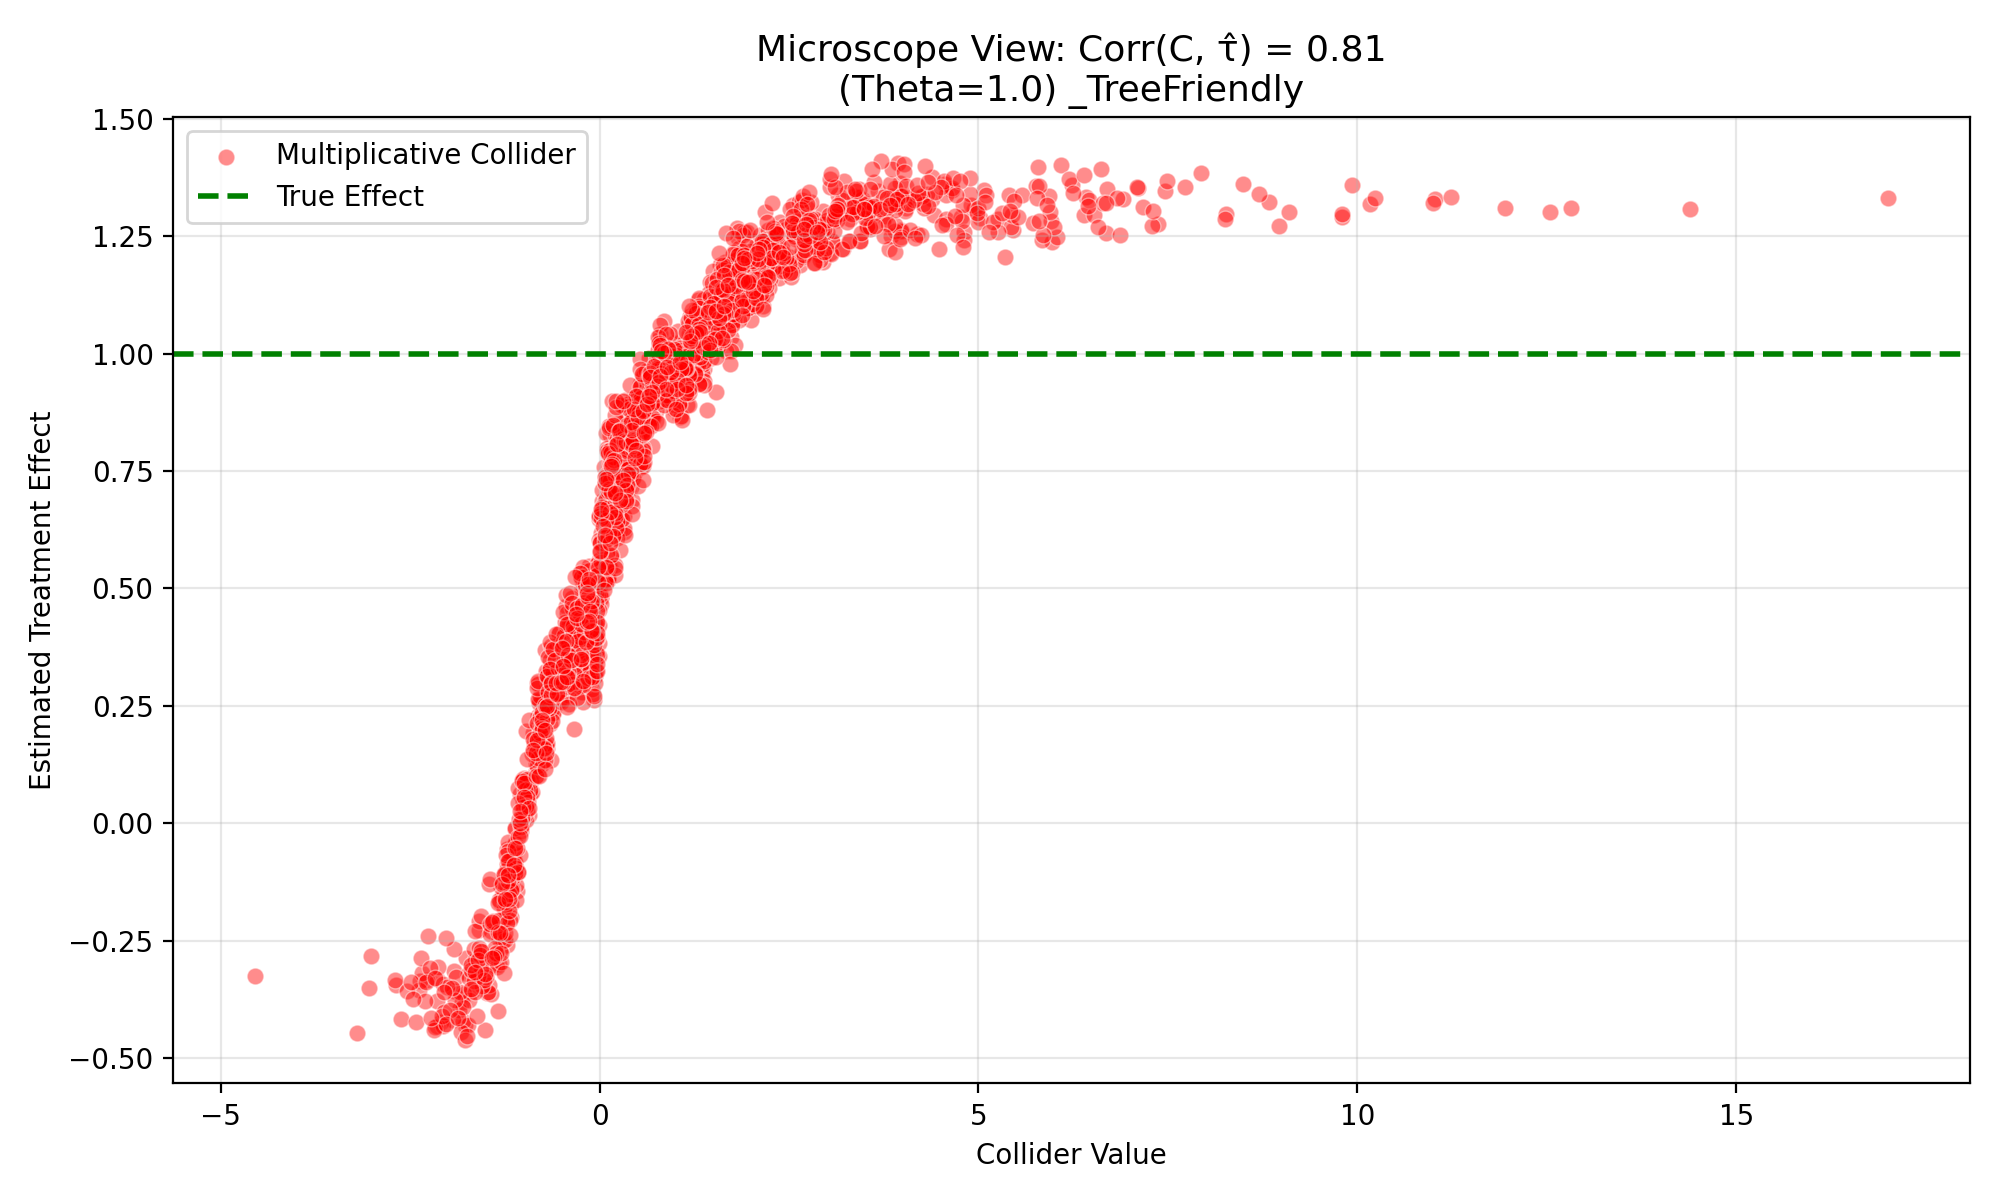
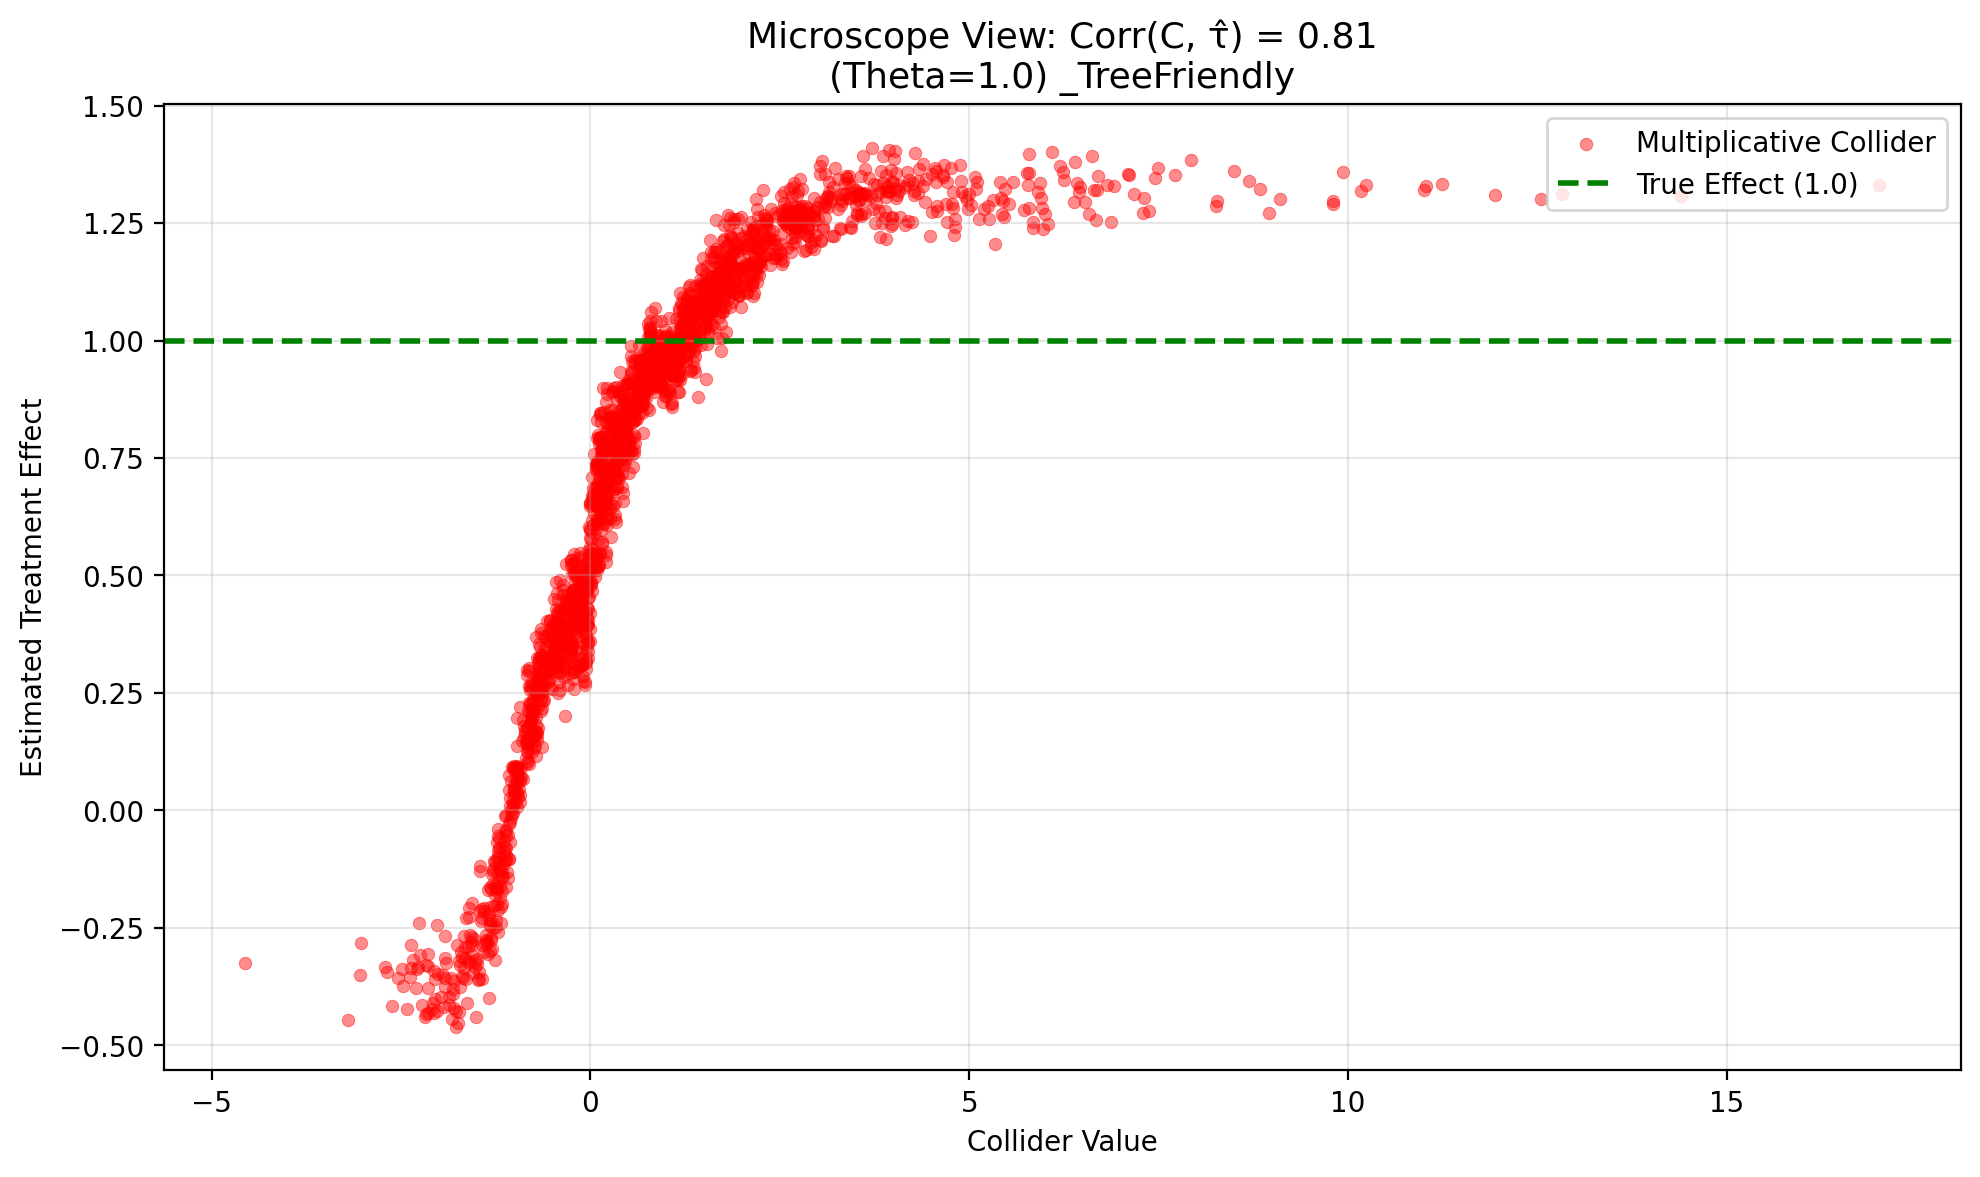
Remove plot titles

Changed region(s): [[0.0, 0.0, 1.0, 0.9482], [0.4929, 0.9482, 0.5854, 0.9788], [0.1232, 0.7952, 0.154, 0.8258]]

diff --git a/src/plotting.py b/src/plotting.py
@@ -5,7 +5,15 @@ import matplotlib.pyplot as plt
 from pathlib import Path
 from matplotlib.lines import Line2D
 
-def plot_microscope_view(dgp, est, theta, output_dir: Path, filename_suffix: str = ""):
+def plot_microscope_view(
+    dgp,
+    est,
+    theta,
+    output_dir: Path,
+    filename_suffix: str = "",
+    wgan_baseline: float = 6250.951,
+    wgan_center: bool = True,
+):
     """
     Microscope diagnostic plot.
 
@@ -14,61 +22,85 @@ def plot_microscope_view(dgp, est, theta, output_dir: Path, filename_suffix: str
 
     - Linear collider is intentionally omitted for clarity.
     - Shows correlation Corr(C, τ̂).
-    - Includes reference line:
+    - Reference line:
         * PLR / TreeFriendly -> True effect (1.0)
-        * WGAN -> Baseline reference
+        * WGAN -> Baseline reference (default = 6250.951)
+
+    WGAN note:
+    If wgan_center=True, the plot is centered at the baseline (plots τ̂ - baseline)
+    and the reference line is at 0.
     """
     output_dir = Path(output_dir)
     output_dir.mkdir(parents=True, exist_ok=True)
 
     dgp_name = getattr(dgp, "name", dgp.__class__.__name__)
-    print(f"Generating Microscope View: {dgp_name} (Theta={theta})")
+    dgp_key = str(dgp_name).lower().strip()
 
-    if not hasattr(est, "cate_estimates") or est.cate_estimates is None:
+    # IMPORTANT: robust WGAN detection
+    is_wgan = ("wgan" in dgp_key)
+
+    print(f"Generating Microscope View: {dgp_name} (Theta={theta}) | is_wgan={is_wgan} | dgp_key={dgp_key}")
+
+    if getattr(est, "cate_estimates", None) is None:
         print("Skipping Microscope View: Estimator has no CATE estimates.")
         return
 
-    if not hasattr(dgp, "C") or dgp.C is None:
+    if getattr(dgp, "C", None) is None:
         print("Skipping Microscope View: DGP has no multiplicative collider.")
         return
 
-    C = dgp.C.flatten()
-    tau_hat = est.cate_estimates.flatten()
+    C = np.asarray(dgp.C).reshape(-1)
+    tau_hat = np.asarray(est.cate_estimates).reshape(-1)
 
-    corr_val = np.corrcoef(C, tau_hat)[0, 1]
+    mask = np.isfinite(C) & np.isfinite(tau_hat)
+    C = C[mask]
+    tau_hat = tau_hat[mask]
+
+    if C.size < 5:
+        print("Skipping Microscope View: Not enough finite observations.")
+        return
+
+    corr_val = float(np.corrcoef(C, tau_hat)[0, 1]) if np.std(C) > 0 and np.std(tau_hat) > 0 else np.nan
+
+    if is_wgan and wgan_center:
+        y = tau_hat - float(wgan_baseline)
+        ref = 0.0
+        ref_label = "Baseline (WGAN) = 0"
+        y_label = "Estimated Treatment Effect (Centered)"
+    else:
+        y = tau_hat
+        if is_wgan:
+            ref = float(wgan_baseline)
+            ref_label = "Baseline (WGAN)"
+        else:
+            ref = 1.0
+            ref_label = "True Effect (1.0)"
+        y_label = "Estimated Treatment Effect"
 
     plt.figure(figsize=(10, 6))
     sns.scatterplot(
         x=C,
-        y=tau_hat,
+        y=y,
         alpha=0.45,
+        s=20,
         color="red",
+        edgecolor=None,
         label="Multiplicative Collider",
     )
 
-    # Reference line
-    if dgp_name.lower() == "wgan":
-        ref = 6250.951
-        ref_label = "Baseline (WGAN)"
-    else:
-        ref = 1.0
-        ref_label = "True Effect"
-
     plt.axhline(ref, color="green", linestyle="--", linewidth=2, label=ref_label)
 
-    plt.title(
-        f"Microscope View: Corr(C, τ̂) = {corr_val:.2f}\n(Theta={theta}) {filename_suffix}",
-        fontsize=13,
-    )
+    corr_txt = f"{corr_val:.2f}" if np.isfinite(corr_val) else "NA"
+    plt.title(f"Microscope View: Corr(C, τ̂) = {corr_txt}\n(Theta={theta}) {filename_suffix}", fontsize=13)
 
     plt.xlabel("Collider Value")
-    plt.ylabel("Estimated Treatment Effect")
-    plt.legend()
+    plt.ylabel(y_label)
     plt.grid(alpha=0.3)
+    plt.legend(loc="upper right")
     plt.tight_layout()
 
-    fname = f"microscope_{dgp_name.lower()}_theta_{theta}{filename_suffix}.png"
-    plt.savefig(output_dir / fname, dpi=200)
+    fname = f"microscope_{'wgan' if is_wgan else dgp_key}_theta_{theta}{filename_suffix}.png"
+    plt.savefig(output_dir / fname, dpi=200, bbox_inches="tight")
     plt.close()
 
     print(f"Saved: {fname}")
@@ -94,114 +126,6 @@ def plot_cate_distribution(est, theta, output_dir: Path):
     plt.grid(True, alpha=0.3)
     plt.savefig(output_dir / f"cate_distribution_theta_{theta}.png")
     plt.close()
-
-
-def plot_rmse_comparison(df: pd.DataFrame, output_dir: Path):
-    """Generates RMSE comparison plots for PLR and TreeFriendly (WGAN excluded: no ground truth)."""
-    output_dir = Path(output_dir)
-    output_dir.mkdir(parents=True, exist_ok=True)
-
-    required_cols = ["DGP", "Method", "Theta", "RMSE"]
-    if not all(col in df.columns for col in required_cols):
-        raise ValueError("DataFrame must contain DGP, Method, Theta, and RMSE columns.")
-
-    print("Generating Plot: RMSE Comparison (PLR & TreeFriendly)...")
-
-    plot_df = df.copy()
-    plot_df = plot_df[plot_df["DGP"].isin(["PLR", "TreeFriendly"])].copy()
-
-    def parse_scenario_type(method: str) -> str:
-        if method.startswith("Naive_"):
-            return "Naive"
-        if method.startswith("BadControl_"):
-            return "MultiplicativeCollider"
-        if method.startswith("LinearCollider_"):
-            return "LinearCollider"
-        return "Other"
-
-    def parse_estimator(method: str) -> str:
-        if "DoubleML" in method or "DML" in method:
-            return "DoubleML"
-        if "EconML" in method:
-            return "EconML"
-        if "OLS" in method:
-            return "OLS"
-        return "Unknown"
-
-    plot_df["scenario_type"] = plot_df["Method"].apply(parse_scenario_type)
-    plot_df["estimator"] = plot_df["Method"].apply(parse_estimator)
-
-    plot_df = plot_df[
-        plot_df["scenario_type"].isin(["Naive", "MultiplicativeCollider", "LinearCollider"])
-        & plot_df["estimator"].isin(["DoubleML", "EconML", "OLS"])
-    ].copy()
-
-    plot_df = plot_df.sort_values(["DGP", "scenario_type", "Theta", "estimator"])
-
-    dgps = ["PLR", "TreeFriendly"]
-    scenario_order = ["MultiplicativeCollider", "LinearCollider", "Naive"]
-    scenario_title = {
-        "MultiplicativeCollider": "Multiplicative",
-        "LinearCollider": "Linear",
-        "Naive": "Naive",
-    }
-
-    fig, axes = plt.subplots(
-        nrows=len(dgps),
-        ncols=len(scenario_order),
-        figsize=(12, 5),
-        sharex=True,
-    )
-
-    fig.suptitle("RMSE Comparison: PLR & TreeFriendly Scenarios", fontsize=14)
-
-    for i, dgp in enumerate(dgps):
-        for j, scen in enumerate(scenario_order):
-            ax = axes[i, j]
-            sub = plot_df[(plot_df["DGP"] == dgp) & (plot_df["scenario_type"] == scen)]
-
-            if sub.empty:
-                ax.set_axis_off()
-                continue
-
-            sns.lineplot(
-                data=sub,
-                x="Theta",
-                y="RMSE",
-                hue="estimator",
-                marker="o",
-                ax=ax,
-                errorbar=None,
-                legend=False,
-            )
-
-            ax.set_title(f"dgp = {dgp} | scenario = {scenario_title[scen]}", fontsize=10)
-            ax.set_xlabel("theta" if i == len(dgps) - 1 else "")
-            ax.set_ylabel("rmse" if j == 0 else "")
-            ax.grid(True, alpha=0.3)
-
-    from matplotlib.lines import Line2D
-
-    legend_elements = [
-        Line2D([0], [0], color=sns.color_palette()[0], marker="o", label="DoubleML"),
-        Line2D([0], [0], color=sns.color_palette()[1], marker="o", label="EconML"),
-        Line2D([0], [0], color=sns.color_palette()[2], marker="o", label="OLS"),
-    ]
-
-    fig.legend(
-        handles=legend_elements,
-        title="estimator",
-        loc="center right",
-        bbox_to_anchor=(0.93, 0.5),
-        frameon=True,
-    )
-
-    plt.tight_layout(rect=[0, 0, 0.80, 0.95])
-    plt.savefig(output_dir / "rmse_comparison_plr_treefriendly.png", dpi=200)
-    plt.close()
-
-    print("Saved: rmse_comparison_plr_treefriendly.png")
-
 
 def plot_bias_comparison(df: pd.DataFrame, output_dir: Path):
     """
@@ -767,12 +691,7 @@ def plot_tau_distribution_1x3_by_dgp(df: pd.DataFrame, output_dir: Path):
         ref_label = "WGAN Reference" if dgp == "WGAN" else "True Effect (1.0)"
 
         fig, axes = plt.subplots(nrows=1, ncols=3, figsize=(16, 5), sharey=False)
-        fig.suptitle(
-            f"{dgp}: Distribution of Estimates",
-            fontsize=18,
-        )
 
-        # Define filename EARLY (important!)
         fname = f"Distribution_of_Estimates_{dgp.lower()}.png"
 
         for j, est in enumerate(estimators):
@@ -854,8 +773,11 @@ def plot_tau_distribution_1x3_by_dgp(df: pd.DataFrame, output_dir: Path):
             frameon=True,
         )
 
-        plt.tight_layout(rect=[0, 0, 0.86, 0.92])
-        plt.savefig(output_dir / fname, dpi=200, bbox_inches="tight")
+        plt.tight_layout(rect=[0, 0, 0.86, 1.0])
+        plt.savefig(
+            output_dir / fname,
+            dpi=250,
+            bbox_inches="tight",
+            pad_inches=0.02
+        )
         plt.close()
-
-        print(f"Saved: {fname}")

diff --git a/analysis.py b/analysis.py
@@ -13,7 +13,6 @@ try:
     from src.evaluation import calculate_metrics
     from src.plotting import (
         plot_microscope_view,
-        plot_rmse_comparison,
         plot_bias_comparison,
         plot_coverage_comparison, 
         plot_bias_variance_grid,
@@ -46,7 +45,6 @@ def main():
         plot_bias_comparison(df, plots_dir)
         plot_coverage_comparison(summary, plots_dir)
         plot_bias_variance_grid(df, plots_dir)
-        plot_rmse_comparison(summary, plots_dir)
         plot_tau_distribution_1x3_by_dgp(df, plots_dir)
 
 
